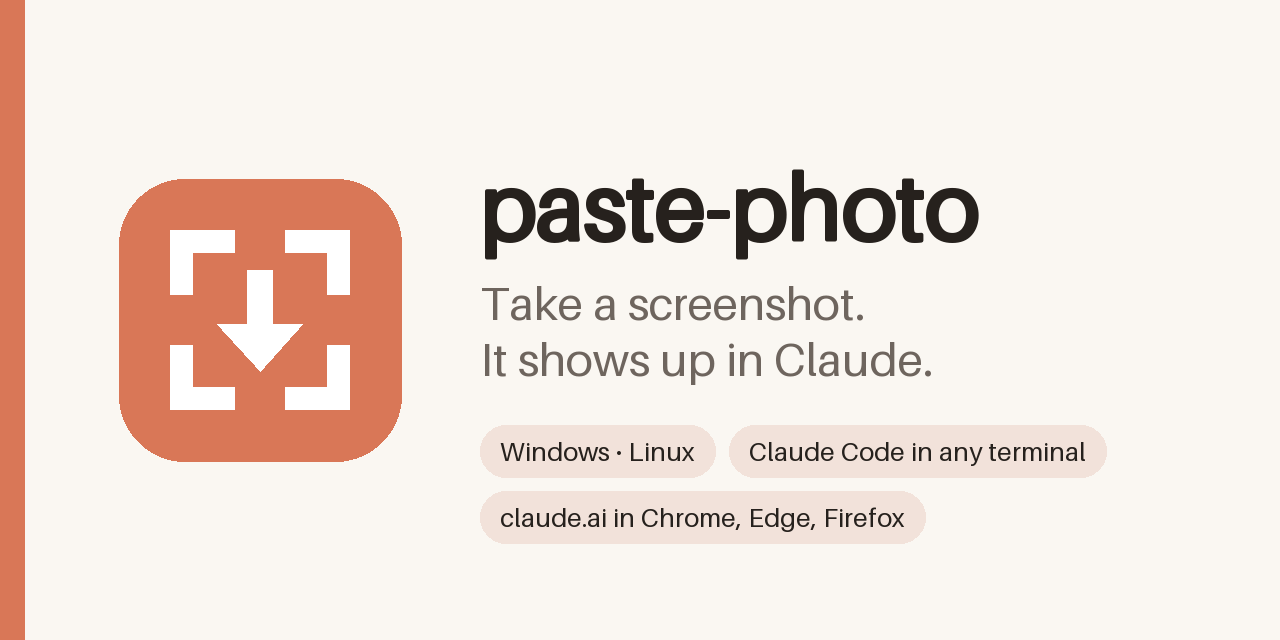
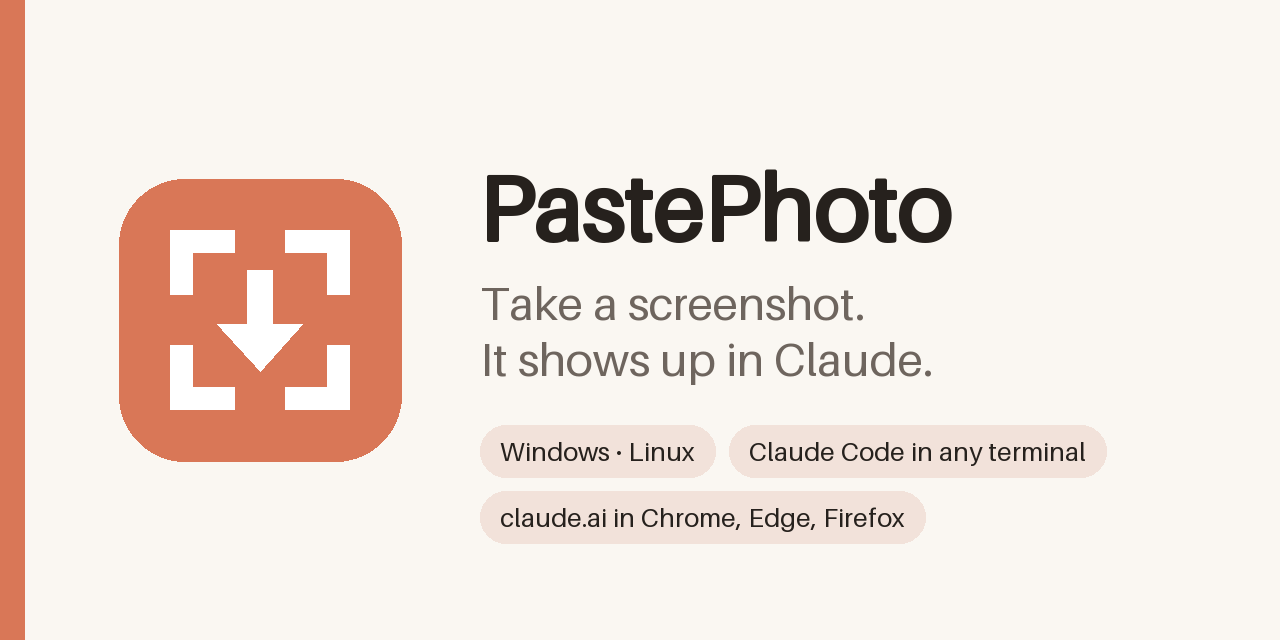
feat: el producto se llama PastePhoto en todo lo visible (paste-photo queda como id técnico)

Changed region(s): [[0.375, 0.25, 0.7812, 0.4062]]

diff --git a/paste_photo/resources/gnome_extension/extension.js b/paste_photo/resources/gnome_extension/extension.js
@@ -1,10 +1,10 @@
 // SPDX-FileCopyrightText: 2026 igarbayo
 // SPDX-License-Identifier: MIT
 //
-// paste-photo helper para GNOME Shell (45+).
+// PastePhoto helper para GNOME Shell (45+).
 //
 // En Wayland las apps no pueden ver otras ventanas ni simular teclas. Esta extensión expone
-// en el bus de sesión lo mínimo que necesita paste-photo:
+// en el bus de sesión lo mínimo que necesita PastePhoto:
 //   ListWindows() -> JSON [{id, title, pid, app_id, focus}]
 //   ActiveWindow() -> id (0 si ninguna)
 //   Activate(id)

diff --git a/paste_photo/resources/extension/cursor.js b/paste_photo/resources/extension/cursor.js
@@ -1,7 +1,7 @@
 // SPDX-FileCopyrightText: 2026 igarbayo
 // SPDX-License-Identifier: MIT
 //
-// paste-photo: recuerda dónde estaba el cursor en el prompt de claude.ai.
+// PastePhoto: recuerda dónde estaba el cursor en el prompt de claude.ai.
 //
 // Corre en el mundo aislado de la extensión, el mismo en el que `background.js` ejecuta
 // `pasteImage`: así la captura se pega donde el usuario dejó el cursor la última vez,

diff --git a/paste_photo/resources/extension/background.js b/paste_photo/resources/extension/background.js
@@ -1,7 +1,7 @@
 // SPDX-FileCopyrightText: 2026 igarbayo
 // SPDX-License-Identifier: MIT
 //
-// paste-photo: puente entre la app de escritorio y las pestañas de claude.ai.
+// PastePhoto: puente entre la app de escritorio y las pestañas de claude.ai.
 //
 // La app habla con esta extensión por "native messaging" (paste-photo-native-host).
 // Mensajes que recibe (todos con `id`, la respuesta lleva el mismo `id`):

diff --git a/packaging/third_party.py b/packaging/third_party.py
@@ -6,7 +6,7 @@
     python packaging/third_party.py <carpeta de la app>    (lo llama build.py)
 
 Escribe en la carpeta de la app:
-    LICENSE                    licencia de paste-photo (MIT)
+    LICENSE                    licencia de PastePhoto (MIT)
     THIRD-PARTY-NOTICES.txt    resumen: componente, versión, licencia y dónde está su texto
     licenses/<componente>/...  textos completos copiados de cada paquete
 
@@ -41,10 +41,10 @@ EXTRA = [
 LGPL_NOTE = """\
 pystray (LGPL-3.0-or-later)
 ---------------------------
-paste-photo uses the pystray library, licensed under the GNU Lesser General Public License
+PastePhoto uses the pystray library, licensed under the GNU Lesser General Public License
 v3 or later. The full LGPL and GPL texts are in licenses/pystray/ (COPYING.LGPL, COPYING).
 pystray is shipped as plain, unmodified Python source files in _internal/pystray/, so you can
-replace it with a modified or newer version: paste-photo loads it from there at runtime.
+replace it with a modified or newer version: PastePhoto loads it from there at runtime.
 Source code: https://github.com/moses-palmer/pystray
 """
 
@@ -134,10 +134,10 @@ def write_notices(app_dir: Path) -> Path:
 
 def render(rows: list[tuple[str, str, str, str]]) -> str:
     lines = [
-        "paste-photo - third-party notices",
+        "PastePhoto - third-party notices",
         "==================================",
         "",
-        "paste-photo itself is licensed under the MIT License (see LICENSE).",
+        "PastePhoto itself is licensed under the MIT License (see LICENSE).",
         "This distribution also includes the following third-party components, each under its",
         "own license. Full texts are in the licenses/ folder next to this file.",
         "",

diff --git a/paste_photo/bridge/install.py b/paste_photo/bridge/install.py
@@ -61,7 +61,7 @@ def host_executable() -> Path:
     if found:
         return Path(found)
     raise FileNotFoundError(
-        "No se encontró paste-photo-native-host. Reinstala paste-photo (pipx/.deb/instalador)."
+        "No se encontró paste-photo-native-host. Reinstala PastePhoto (pipx/.deb/instalador)."
     )
 
 
@@ -69,7 +69,7 @@ def host_manifest(executable: Path, *, gecko: bool = False) -> dict:
     """Manifiesto del host: Chromium autoriza por origen, Firefox por ID de la extensión."""
     manifest = {
         "name": protocol.HOST_NAME,
-        "description": "paste-photo: pega capturas en claude.ai",
+        "description": "PastePhoto: pega capturas en claude.ai",
         "path": str(executable),
         "type": "stdio",
     }
@@ -195,7 +195,7 @@ def setup_browser() -> str:
         f"  ID esperado de la extensión: {protocol.EXTENSION_ID}",
         "",
         "Firefox, LibreWolf...:",
-        "  - Instala el .xpi firmado de la página de versiones de paste-photo, o",
+        "  - Instala el .xpi firmado de la página de versiones de PastePhoto, o",
         "  - sin firmar (Firefox ESR, Developer Edition, Nightly, LibreWolf, con",
         "    xpinstall.signatures.required = false en about:config): about:addons →",
         "    ⚙ → 'Instalar complemento desde archivo' y elige:",

diff --git a/paste_photo/doctor.py b/paste_photo/doctor.py
@@ -23,7 +23,7 @@ OK, WARN, FAIL = "✔", "⚠", "✘"
 
 
 def run(config: Config, factory) -> str:
-    lines = [f"paste-photo {__version__} · Python {platform.python_version()} · {sys.platform}"]
+    lines = [f"PastePhoto {__version__} · Python {platform.python_version()} · {sys.platform}"]
     checks: list[Callable[[], list[str]]] = [
         lambda: _session(factory),
         lambda: _tools(factory),
@@ -98,11 +98,11 @@ def _bridge() -> list[str]:
         if browsers:
             lines.append(f"{OK} Extensión conectada en {len(browsers)} navegador(es)")
         else:
-            lines.append(f"{WARN} paste-photo está abierto pero ninguna extensión conectada: "
+            lines.append(f"{WARN} PastePhoto está abierto pero ninguna extensión conectada: "
                          "cárgala en chrome://extensions o instala el .xpi en Firefox "
                          "(ver `paste-photo setup browser`)")
     except (OSError, EOFError):
-        lines.append(f"{WARN} paste-photo no está abierto (no se puede ver si la extensión "
+        lines.append(f"{WARN} PastePhoto no está abierto (no se puede ver si la extensión "
                      "está conectada)")
     return lines
 

diff --git a/paste_photo/service.py b/paste_photo/service.py
@@ -57,7 +57,7 @@ class PasteService:
         self._source = self._factory.create_screenshot_source()
         self._source.start(self._on_capture)
         log.info(
-            "paste-photo activo (%s). Destinos: %s (prioridad: %s)",
+            "PastePhoto activo (%s). Destinos: %s (prioridad: %s)",
             self._factory.name,
             ", ".join(self._orchestrator.target_names) if self._orchestrator else "-",
             self._config.prefer,
@@ -88,7 +88,7 @@ class PasteService:
         if active == self.active:
             return
         (self._active.set if active else self._active.clear)()
-        log.info("paste-photo %s", "activado" if active else "en pausa")
+        log.info("PastePhoto %s", "activado" if active else "en pausa")
         self._emit(StateChanged(active))
 
     # --- órdenes desde las interfaces ---------------------------------------
@@ -128,7 +128,7 @@ class PasteService:
         if self.active:
             self._queue.put(event)
         else:
-            log.debug("Captura ignorada: paste-photo está en pausa")
+            log.debug("Captura ignorada: PastePhoto está en pausa")
 
     def _work(self) -> None:
         try:

diff --git a/paste_photo/ui/tray.py b/paste_photo/ui/tray.py
@@ -4,7 +4,7 @@
 """Icono en la bandeja del sistema (pystray): la interfaz por defecto.
 
 Menú:
-    paste-photo: activo          (estado)
+    PastePhoto: activo           (estado)
     ✔ Activado                   pausa / reanuda
     Pegar en ▸                   el Claude usado por última vez | orden de la configuración
     ✔ Notificaciones
@@ -40,7 +40,8 @@ from paste_photo.ui._system import open_path
 
 log = logging.getLogger(__name__)
 
-APP_TITLE = "paste-photo"
+APP_ID = "paste-photo"  # identificador del icono (AppIndicator en Linux): no cambia
+APP_TITLE = "PastePhoto"  # nombre visible
 TARGET_NAMES = {"windows_terminal": "Windows Terminal", "browser": "el navegador"}
 MAX_LABEL = 60
 
@@ -71,7 +72,7 @@ class TrayApp:
 
     def run(self) -> None:
         """Bloquea hasta que el usuario elige "Salir"."""
-        self._icon = pystray.Icon(APP_TITLE, self._images[True], APP_TITLE, menu=self._menu())
+        self._icon = pystray.Icon(APP_ID, self._images[True], APP_TITLE, menu=self._menu())
         self._service.subscribe(self._on_event)
         self._icon.run(setup=self._setup)
 

diff --git a/paste_photo/bridge/native_host.py b/paste_photo/bridge/native_host.py
@@ -3,7 +3,7 @@
 
 """`paste-photo-native-host`: lo lanza el navegador (native messaging), no el usuario.
 
-Reenvía mensajes entre la extensión (stdin/stdout del host) y el servicio de paste-photo
+Reenvía mensajes entre la extensión (stdin/stdout del host) y el servicio de PastePhoto
 (canal local). Si el servicio no está abierto, espera y reintenta: la extensión sigue
 conectada y estará lista en cuanto se abra paste-photo.
 """
@@ -36,7 +36,7 @@ def main() -> int:
                 conn = Client(protocol.address(), family=protocol.family(),
                               authkey=protocol.authkey())
             except (OSError, EOFError):
-                time.sleep(RETRY_S)  # paste-photo no está abierto todavía
+                time.sleep(RETRY_S)  # PastePhoto no está abierto todavía
                 continue
             state["conn"] = conn
             if state["hello"] is not None:  # presentarse de nuevo tras reconectar

diff --git a/packaging/linux/build_deb.py b/packaging/linux/build_deb.py
@@ -42,7 +42,7 @@ exec /usr/bin/python3 -m %(module)s "$@"
 
 DESKTOP = """[Desktop Entry]
 Type=Application
-Name=paste-photo
+Name=PastePhoto
 Comment=Paste your screenshots into Claude
 Exec=paste-photo
 Icon=paste-photo
@@ -90,7 +90,7 @@ def control(ver: str, installed_kb: int) -> str:
         "Priority: optional\n"
         "Homepage: https://github.com/igarbayo/paste-photo\n"
         "Description: Automatically paste your screenshots into Claude\n"
-        " paste-photo lives in the system tray and pastes every new screenshot into\n"
+        " PastePhoto lives in the system tray and pastes every new screenshot into\n"
         " the Claude you used last: Claude Code in any terminal (tmux, kitty, WezTerm,\n"
         " Konsole, Orca, GNOME Terminal, xterm...) or claude.ai in Chromium-based\n"
         " browsers, Firefox and other browsers such as GNOME Web.\n"

diff --git a/packaging/build.py b/packaging/build.py
@@ -49,11 +49,11 @@ def write_version_info(ver: str) -> Path:
   kids=[
     StringFileInfo([StringTable('040904B0', [
       StringStruct('CompanyName', 'igarbayo'),
-      StringStruct('FileDescription', 'paste-photo'),
+      StringStruct('FileDescription', 'PastePhoto'),
       StringStruct('FileVersion', '{ver}'),
       StringStruct('InternalName', 'paste-photo'),
       StringStruct('OriginalFilename', 'paste-photo.exe'),
-      StringStruct('ProductName', 'paste-photo'),
+      StringStruct('ProductName', 'PastePhoto'),
       StringStruct('ProductVersion', '{ver}')])]),
     VarFileInfo([VarStruct('Translation', [1033, 1200])])
   ]

diff --git a/packaging/winget/make_manifests.py b/packaging/winget/make_manifests.py
@@ -45,7 +45,7 @@ def manifests(version: str, url: str, sha256: str) -> dict[str, str]:
             "PackageLocale: en-US\n"
             "Publisher: igarbayo\n"
             "PublisherUrl: https://github.com/igarbayo\n"
-            "PackageName: paste-photo\n"
+            "PackageName: PastePhoto\n"
             "PackageUrl: https://github.com/igarbayo/paste-photo\n"
             "License: MIT\n"
             "LicenseUrl: https://github.com/igarbayo/paste-photo/blob/main/LICENSE\n"
